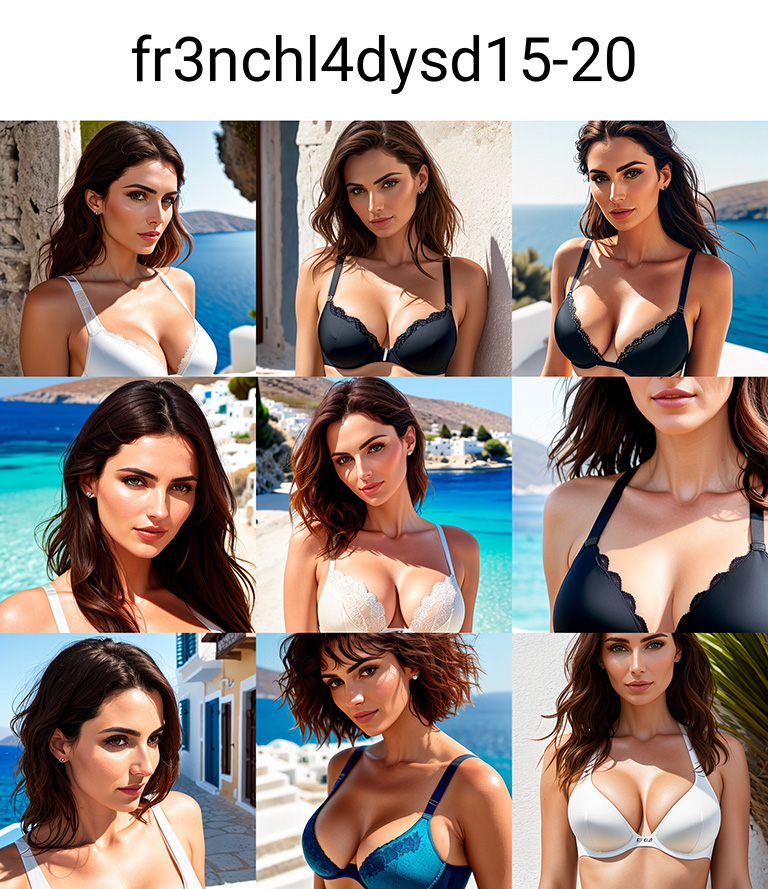
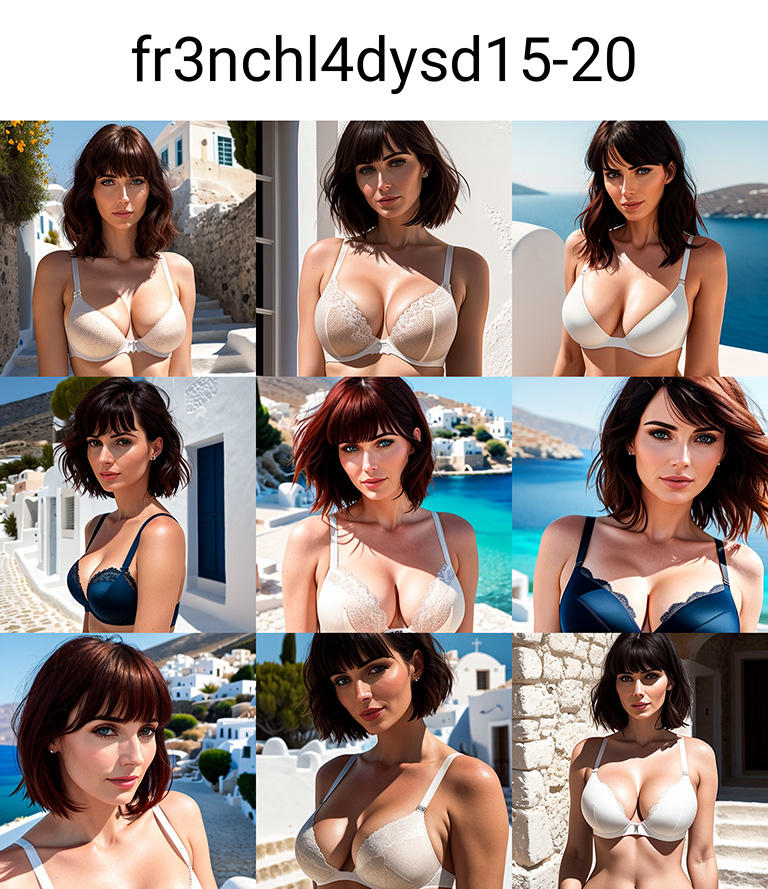
Revised process to avoid the gray background issues with the previous test run.

diff --git a/consistent_character_embedding/README.md b/consistent_character_embedding/README.md
@@ -2,13 +2,13 @@
 
 One of the great things about generating images with Stable Diffusion ("SD") is the sheer variety and flexibility of images it can output. However, some times it can be useful to get a _consistent_ output, where multiple images contain the "same person" in a variety of permutations.
 
-To that end, I've spent some time working on a technique for training Standard Diffusion to generate consistent made-up characters whose faces, bodies, and hair look essentially the same whenever you use them in a prompt. This tutorial is a description of the approach I use.
+To that end, I've spent some time working on a technique for training Stable Diffusion to generate consistent made-up characters whose faces, bodies, and hair look essentially the same whenever you use them in a prompt. This tutorial is a description of the approach I use.
 
 You can see [all of the "LastName" characters I've trained with this method on CivitAI](https://civitai.com/user/BelieveDiffusion). And credit where it's due - they were inspired by the [Nobody series by Zovya](https://civitai.com/tag/znobody). Thank you for the inspiration, Zovya!
 
 ## Goals
 
-If all goes to plan, by the end of this tutorial you will have created a Standard Diffusion [Textual Inversion embedding](https://arxiv.org/abs/2208.01618) that can reliably recreate a consistent character across multiple poses, SD checkpoints, hair styles, body types, and prompts.
+If all goes to plan, by the end of this tutorial you will have created a Stable Diffusion [Textual Inversion embedding](https://arxiv.org/abs/2208.01618) that can reliably recreate a consistent character across multiple poses, SD checkpoints, hair styles, body types, and prompts.
 
 ## Process
 
@@ -197,51 +197,29 @@ For training, we can remove nearly all of the detail from the generation prompt 
 - the character's body shape
 - the character's hairstyle
 
-…because we want SD to learn that all of those things combined are known as `fr3nchl4dysd15`.
+…because we want SD to learn that all of those things combined are known as `fr3nchl4dysd15`. Essentially, the thing we want SD to learn - our character - is the sum total of all of those attributes combined. It's kind of like saying we have "a photo of Marilyn Monroe", but instead of using the name "Marilyn Monroe", we're using the made-up name "`fr3nchl4dysd15`".
 
-Essentially, the thing we want SD to learn - our character - is the sum total of all of those attributes combined. It's kind of like saying we have "a photo of Marilyn Monroe", but instead of using the name "Marilyn Monroe", we're using the made-up name "`fr3nchl4dysd15`".
-
-I should note that training the body shape and hairstyle as part of the character does remove a _little_ bit of the flexibility from the embedding, but I've found that in practice I can still change the body style and hairstyle after the event pretty easily with a more detailed prompt Including these things in the essence of the character makes it much easier and quicker to generate consistent outputs without spending future prompt tokens on the things we want to become part of our character's default style.
+I should note that training the body shape and hairstyle as part of the character does remove a _little_ bit of the flexibility from the embedding, but I've found that in practice I can still change the body style and hairstyle after the event pretty easily with a more detailed prompt. Including the body shape and hairstyle in the essence of the character makes it much easier and quicker to generate consistent outputs without spending future prompt tokens on the things we want to become part of our character's default style.
 
 ## Tidying up the input prompts
 
 One of the goals of tagging is to tell the training process about all of the things that are _not_ the essence of your character in each image. For example: we generated training images above that had a neutral gray background, but we don't always want our character to appear in images with neutral gray backgrounds. So, we want to keep the "neutral gray background" tag when each image is used for training, so that the trainer knows that "neutral gray background" is not an attribute of our character.
 
-We likewise don't want the character to always be naked, so we'll keep "naked" in our training tags too. (We don't need to boost these terms in the training tags - we're just stating facts about the generated images).
+We likewise don't want the character to always be naked, so we'll keep "naked" in our training prompt too. (We don't need to boost these two terms in the training prompt - we're just stating facts about the generated images).
 
-## Prompt template
+We will, however, remove the original viewing angles from the generation prompt, because they're not something we really need SD to learn - they were more to ensure we got a varied set of input images from step 1 above.
 
-To achieve all of this, we're going to define a new prompt template to use for our training prompts. Here's the prompt template I use, which goes in the `textual_inversion_templates` folder of your A1111 installation. I call it `subject_filewords_character.txt`, and it contains just the following text:
+We will likewise remove `neutral face expression` from the training prompt, because we don't need to train SD on this fact - the absence of a facial expression is implicit from its omission from the training prompt. (We only specified it in the generation prompt in step 1 to ensure we got neutral expressions to train on.)
 
-```
-[filewords] photo of [name] naked, neutral gray background
-[filewords] portrait of [name] naked, neutral gray background
-[filewords] image of [name] naked, neutral gray background
-```
+The one other thing I do keep around in the training prompt is the zoom levels. I don't want SD to learn that `fr3nchl4dysd15` is always in `a closeup photo` (or whatever zoom we ended up with most of). We don't want the embedding to learn a particular zoom level, so we keep it in the training prompt.
 
-This template tells SD to choose one of these three lines for each image it looks at during training. The "`[name]`" text automatically gets replaced with the name of the embedding (i.e. `fr3nchl4dysd15`). We will update the filenames of the images below to provide the text that gets substituted in for `[filewords]`.
-
-With this template, the training prompt for an example image will be something like this (with `photo`, `portrait`, or `image` in the prompt):
-
-```
-an extreme closeup photo of fr3nchl4dysd15 naked, neutral gray background
-```
-
-Note that this removes the original viewing angles from the generation prompt, because they're not something we really need SD to learn - they were more to ensure we got a varied set of input images from step 1 above. (I still choose to keep the zoom levels in the training prompts, however - more on that below.)
-
-This also removes `neutral face expression` from the prompt. Again, we don't need to train SD on this fact - the absence of a facial expression is implicit from its omission from the training prompt. (We only specified it in the generation prompt in step 1 to ensure we got neutral expressions to train on.)
-
-This is (IMHO) a pretty good training prompt… with one exception. We may have _asked_ SD to generate `an extreme closeup photo` for some image in our initial set of 400 images, but that's no guarantee that SD actually gave us what we asked for. So, now for the boring bit: going through each filtered image and checking that the zoom level actually matches the image.
-
-## Why keep the zoom levels in the training prompts?
-
-The main reason I keep the zoom levels around is because I don't want SD to learn that `fr3nchl4dysd15` is always in `a closeup photo` (or whatever zoom we ended up with most of). We don't want the embedding to learn a particular zoom level, so we keep it in the training prompt.
+There's one problem with that, however. We may have _asked_ SD to generate `an extreme closeup photo` for some image in our initial set of 400 images, but that's no guarantee that SD actually gave us what we asked for. So, we need to go through each filtered image, and check that the zoom level actually matches the image.
 
 ## Tidying up the zooms
 
 In many cases, the requested zoom level from a prompt in step 1 will match the image we got back. But that's not always the case - I often find that I don't get any `extreme closeup` images from step 1 above, for example.
 
-The way I approach this tidy-up process is to create five folders, named after each of the requested zooms, and to copy images into those folders based on the zoom level in their filename. (This is why we included the generation prompt in the PNG file name above.) I then look through the images in each folder, and move any that don't fit the description of that zoom level to a more appropriate folder.
+The way I approach this tidy-up process is to create five folders, named after each of the requested zooms, and to copy images into those folders based on the zoom level in their original filename. (This is why we included the generation prompt in the PNG file name above.) I then look through the images in each folder, and move any that don't fit the description of that zoom level to a more appropriate folder.
 
 There's no exact science to what these zoom definitions mean. Here's how I apply the zooms, working from widest angle to closest:
 
@@ -255,31 +233,31 @@ Don't worry too much if you don't have any `extreme closeup` photos, or if your 
 
 ## Renaming the tidied images
 
-With our (up to) five folders of images now correctly organized, the last step of tagging is to rename those images to only contain the zoom level (plus an unique number, so that the file names don't clash). How you do this is up to you; I'm on a Mac, so I use the built-in Automator. Rename all of the images in each folder to have names like this:
+With our (up to) five folders of images now correctly organized, the last step of tagging is to rename those images to provide an essential training prompt (plus a number, to make the filenames unique). How you perform this renaming is up to you; I'm on a Mac, so I use the built-in Automator app.
+
+Rename all of the images in each folder to have names like this:
 
 ```
-a closeup (1).png
-a closeup (2).png
+a closeup photo of fr3nchl4dysd15 naked, neutral gray background (1).png
+a closeup photo of fr3nchl4dysd15 naked, neutral gray background (2).png
 …
-a full body (1).png
-a full body (2).png
+a full body photo of fr3nchl4dysd15 naked, neutral gray background (1).png
+a full body photo of fr3nchl4dysd15 naked, neutral gray background (2).png
 …
-a medium closeup (1).png
-a medium closeup (2).png
+a medium closeup photo of fr3nchl4dysd15 naked, neutral gray background (1).png
+a medium closeup photo of fr3nchl4dysd15 naked, neutral gray background (2).png
 …
 ```
 
-…you get the idea. Finally, put all of the renamed images into a single folder that A1111 can access.
+…and so on. Finally, copy all 150 of the renamed images into a single folder that A1111 can access.
 
 The names of these renamed images will be used in place of the `[filenames]` text in our training prompt template during training, giving training prompts like this:
 
 ```
-a closeup (6) photo of fr3nchl4dysd15 naked, neutral gray background
-a full body (2) portrait of fr3nchl4dysd15 naked, neutral gray background
-a medium closeup (9) image of fr3nchl4dysd15 naked, neutral gray background
+fr3nchl4dysd15, a closeup photo of fr3nchl4dysd15 naked, neutral gray background (1)
 ```
 
-Don't worry about the numbers in brackets - SD will ignore them.
+Don't worry about the number in brackets at the end - SD will ignore it.
 
 # 4. Training an embedding on the input images
 
@@ -309,7 +287,7 @@ Here's how all of those settings look in A1111:
 
 Next, head over to the `Train` sub-tab. I'll cover all of the training settings below, but if you just want a summary, here's how my settings look in A1111:
 
-![Training settings](images/step_4_train_settings_5_step_300_graduated.jpg)
+![Training settings](images/step_4_train_settings_5_step_200.jpg)
 
 ### Basic settings
 
@@ -317,9 +295,7 @@ Select the embedding you just created (`fr3nchl4dysd15`) in the `Embedding` drop
 
 You can ignore the `Hypernetwork` dropdown and the `Hypernetwork Learning rate` field - those are only used when training a Hypernetwork, which we're not doing here.
 
-For 150 input images, I set `Embedded Learning rate` to `0.002:15, 0.001:50, 0.0005`. This tells SD to start training (for images 1 thru 15) with a pretty quick learning rate. It then switches to a slower learning rate for images 16 thru 50, before switching to an even slower rate for the remaining steps.
-
-The goal here is to trigger SD to get the high-level essence of your character pretty quickly, then give it more time to pick up the nuances and details that make your character unique. It's kind of like carving a statue of a person out of a block of marble - you start with a big chisel to get the rough shape of the person, then you use smaller and smaller chisels to add the detail.
+`Embedded Learning rate` is a finicky beast. Many tutorials advise setting this to a value that changes over time, but I've had more success keeping it constant. For 150 images, I set the learning rate to `0.002`.
 
 I leave `Gradient Clipping` as `disabled`, and leave the value as `1`.
 
@@ -341,7 +317,7 @@ I've actually made my own prompt template, which goes in the `textual_inversion_
 [name], [filewords]
 ```
 
-This file gets translated by SD into a training prompt for each input image. `[name]` is translated into the name of the embedding (`fr3nchl4dysd15`), and `[filewords]` is translated into the contents of the tagging text file for that image. So, for one of our images, the combined training prompt from this text file might be:
+This file gets translated by SD into a training prompt for each input image. `[name]` is translated into the name of the embedding (`fr3nchl4dysd15`), and `[filewords]` is translated into the tags from the filename for that image. So, for one of our images, the combined training prompt from this text file might be:
 
 ```
 fr3nchl4dysd15, an extreme closeup photo of fr3nchl4dysd15 naked, neutral gray background
@@ -357,7 +333,7 @@ Leave the `Width` and `Height` at their default values of `512`. There's no need
 
 With all of the settings above, and an image dataset of 150 images, I find that the model tends to become well-trained somewhere between 50-150 training steps. To that end, I normally set `Max steps` to `200`.
 
-For `Save an image to log directory every N steps, 0 to disable` and `Save a copy of embedding to log directory every N steps, 0 to disable`, I usually set these to either `10`, `5`, or `1`. Setting a value of `10` will train more quickly, because SD isn't pausing to generate a "how am I doing?" image and embedding every single step. However, it means that you also only have "marker" embeddings to select from every ten steps of the generation process. Setting a value of `5` saves an image and embedding twice as often, giving more scope for picking just the right "goldilocks" iteration. Setting the values to `1` gives you an embedding at every step, at the cost of more generation time. You're basically trading off flexibility of choosing an iteration against generation time. If in doubt, use `5` for both of these numbers.
+For `Save an image to log directory every N steps, 0 to disable` and `Save a copy of embedding to log directory every N steps, 0 to disable`, I usually set these to either `10`, `5`, or `1`. Setting a value of `10` will train more quickly, because SD isn't pausing to generate a "how am I doing?" image and embedding every single step. However, it means that you also only have "marker" embeddings to select from every ten steps of the generation process. Setting a value of `5` saves an image and embedding twice as often, giving more scope for picking just the right "[Goldilocks](https://en.wikipedia.org/wiki/Goldilocks_and_the_Three_Bears)" iteration. Setting the values to `1` gives you an embedding at every step, at the cost of more generation time. You're basically trading off flexibility of choosing an iteration against generation time. If in doubt, use `5` for both of these numbers.
 
 ### Training options
 
@@ -477,10 +453,10 @@ Note that the `Prompt` field specifies a particular generation of the embedding'
 
 Next, from the `Script` drop-down menu, select `X/Y/Z plot`. Set `X type` to `Prompt S/R`. Set `Y type` and `Z type` to `Nothing`.
 
-Set `X values` to the following (assuming you generated 300 steps when training):
+Set `X values` to the following (assuming you generated 200 steps when training):
 
 ```
-fr3nchl4dysd15-20, fr3nchl4dysd15-40, fr3nchl4dysd15-60, fr3nchl4dysd15-80, fr3nchl4dysd15-100, fr3nchl4dysd15-120, fr3nchl4dysd15-140, fr3nchl4dysd15-160, fr3nchl4dysd15-180, fr3nchl4dysd15-200, fr3nchl4dysd15-220, fr3nchl4dysd15-240, fr3nchl4dysd15-260, fr3nchl4dysd15-280, fr3nchl4dysd15-300
+fr3nchl4dysd15-20, fr3nchl4dysd15-40, fr3nchl4dysd15-60, fr3nchl4dysd15-80, fr3nchl4dysd15-100, fr3nchl4dysd15-120, fr3nchl4dysd15-140, fr3nchl4dysd15-160, fr3nchl4dysd15-180, fr3nchl4dysd15-200
 ```
 
 This tells A1111 to generate a set of 9 images (3x3) for each embedding training iteration that was a multiple of 20 (so 20, 40, 60, and so on).
@@ -489,7 +465,7 @@ Here's how those validation settings look for me:
 
 ![Validation settings](images/step_5_validation_settings.jpg)
 
-I recommend running this against the model you used to create the original input images (in my case, Deliberate v2), and also against the Standard Diffusion 1.5 base model. I've included examples of both below.
+I recommend running this against the model you used to create the original input images (in my case, Deliberate v2), and also against the Stable Diffusion 1.5 base model. I've included examples of both below.
 
 The generation process may take several minutes, and will generate a VERY big image. I've cropped it down to show some select iterations below.
 
@@ -500,50 +476,56 @@ If we look at the output of this prompt after 20 training steps, we can see that
 <img src="images/step_5_coarse_sd15_bra_greek_island_step_20.jpg" width="384" height="445" alt="Validation output after 20 steps of training - SD 1.5">
 <img src="images/step_5_coarse_deliberate_bra_greek_island_step_20.jpg" width="384" height="445" alt="Validation output after 20 steps of training - Deliberate v2">
 
-However, if we look a little further ahead, we can see that things really start to turn into our character somewhere between step 80 and step 120. Here are the outputs of those steps from SD 1.5:
+However, if we look a little further ahead, we can see that things really start to turn into our character somewhere between step 100 and step 140. Here are the outputs of those steps from SD 1.5:
 
-<img src="images/step_5_coarse_sd15_bra_greek_island_steps_80_to_120.jpg" width="1160" height="445" alt="Validation output between 80 and 120 steps of training - SD 1.5">
+<img src="images/step_5_coarse_sd15_bra_greek_island_steps_100_to_140.jpg" width="1160" height="445" alt="Validation output between 100 and 140 steps of training - SD 1.5">
 
 …and from Deliberate v2:
 
-<img src="images/step_5_coarse_deliberate_bra_greek_island_steps_80_to_120.jpg" width="1160" height="445" alt="Validation output between 80 and 120 steps of training - Deliberate v2">
+<img src="images/step_5_coarse_deliberate_bra_greek_island_steps_100_to_140.jpg" width="1160" height="445" alt="Validation output between 100 and 140 steps of training - Deliberate v2">
 
-It's possible that step 100 might be the "Goldilocks" iteration, but to narrow things down further, we'll generate a second comparison image, this time using the embeddings we generated every five iterations between 80 and 120 steps.
+To narrow things down further, we'll generate a second comparison image, this time using the embeddings we generated every five iterations between 100 and 140 steps.
 
-Change the `X values` box to the following, and generate another grid for the two checkpoints:
+Change the `X values` box to the following, and generate another grid for the two checkpoints (replacing `fr3nchl4dysd15-20` with `fr3nchl4dysd15-100` in the prompt as the new starting value):
 
 ```
-fr3nchl4dysd15-80, fr3nchl4dysd15-85, fr3nchl4dysd15-90, fr3nchl4dysd15-95, fr3nchl4dysd15-100, fr3nchl4dysd15-105, fr3nchl4dysd15-110, fr3nchl4dysd15-115, fr3nchl4dysd15-120
+fr3nchl4dysd15-100, fr3nchl4dysd15-105, fr3nchl4dysd15-110, fr3nchl4dysd15-115, fr3nchl4dysd15-120, fr3nchl4dysd15-125, fr3nchl4dysd15-130, fr3nchl4dysd15-135, fr3nchl4dysd15-140
 ```
 
-You're looking for the first iteration where all nine of the images are definitely recognizably your character in both models. For me, this turned out to be step 110.
+You're looking for the first iteration where all nine of the images are definitely recognizably your character in both models. For me, this turned out to be step 115. Here are the outputs from SD 1.5:
 
-Next, turn off the X/Y/Z plot script, and try generating batches of four images (each using the same starting seed) for the same prompt and your candidate iteration (`fr3nchl4dysd15-110`, in my case) with a variety of different checkpoints from CivitAI. The goal here is to check that the iteration you selected adapts well to multiple different SD checkpoints. I deliberately generate these images with a non-standard size of 512x768, to see how well the embedding adapts.
+<img src="images/step_5_fine_sd15_bra_greek_island_steps_110_to_120.jpg" width="1160" height="445" alt="Validation output between 110 and 120 steps of training - SD 1.5">
 
-Here's the output with iteration 110 for a bunch of different photorealistic checkpoints.
+…and from Deliberate v2:
+
+<img src="images/step_5_fine_deliberate_bra_greek_island_steps_110_to_120.jpg" width="1160" height="445" alt="Validation output between 110 and 120 steps of training - Deliberate v2">
+
+## Validating the candidate embedding
+
+We have now identified a candidate embedding. To validate it further, turn off the X/Y/Z plot script, and try generating batches of four images (each using the same starting seed) for the same prompt as above, using your candidate iteration (`fr3nchl4dysd15-115`, in my case) with a variety of different checkpoints from CivitAI. The goal here is to check that the iteration you selected adapts well to multiple different SD checkpoints.
+
+I deliberately generate these images with a non-standard size of 512x768, to see how well the embedding adapts.
+
+Here's the output with iteration 115 for a bunch of different photorealistic checkpoints.
 
 [Avalon TRUvision](https://civitai.com/models/13020/avalon-truvision):
 
-<img src="images/step_5_candidate_110_output_avalon.jpg" width="512" height="768" alt="Avalon results">
+<img src="images/step_5_candidate_115_output_avalon.jpg" width="512" height="768" alt="Avalon results">
 
 [Deliberate v2](https://civitai.com/models/4823/deliberate):
 
-<img src="images/step_5_candidate_110_output_deliberate.jpg" width="512" height="768" alt="Deliberate results">
+<img src="images/step_5_candidate_115_output_deliberate.jpg" width="512" height="768" alt="Deliberate results">
 
 [GalaxyTimeMachine's "ForYou-Photo"](https://civitai.com/models/25636/galaxytimemachines-foryou-photo-fantasyai):
 
-<img src="images/step_5_candidate_110_output_gtmphoto.jpg" width="512" height="768" alt="GTM Photo results">
+<img src="images/step_5_candidate_115_output_gtmphoto.jpg" width="512" height="768" alt="GTM Photo results">
 
 [Realistic Vision v2.0](https://civitai.com/models/4201/realistic-vision-v20):
 
-<img src="images/step_5_candidate_110_output_realistic.jpg" width="512" height="768" alt="Realistic Vision results">
+<img src="images/step_5_candidate_115_output_realistic.jpg" width="512" height="768" alt="Realistic Vision results">
 
-The results look good and consistent for each checkpoint, which convinced me that my choice of learning steps was the right one to pick. (I'm going to excuse the outlier hair color of the first image in the GalaxyTimeMachine output.)
+The results look good and pretty consistent for each checkpoint, which suggests that my choice of learning steps was the right one to pick.
 
 ## Using your Embedding
 
-Now that you've selected the ideal embedding iteration, you can rename it to just `fr3nchl4dysd15.pt` (rather than `fr3nchl4dysd15-110.pt`), and use it in your own prompts. If you'd like to download the result I used above, [here it is](fr3nchl4dysd15.pt). Just drop that file in A1111's `embeddings` folder, and refresh the embeddings list to use it.
-
-## Showcase examples
-
-Here are a few examples that put the embedding through its paces. Prompts and models used are included below.
+Now that you've selected the ideal embedding iteration, you can rename it to just `fr3nchl4dysd15.pt` (rather than `fr3nchl4dysd15-115.pt`), and use it in your own prompts. If you'd like to download the result I used above, [here it is](fr3nchl4dysd15.pt). Just drop that file in A1111's `embeddings` folder, and refresh the embeddings list to use it.
